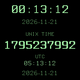
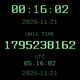
Use pure green #00FF00 for bright phosphor text

diff --git a/src/c/main.c b/src/c/main.c
@@ -80,19 +80,19 @@ static void window_load(Window *window) {
   s_font_label = fonts_load_custom_font(resource_get_handle(RESOURCE_ID_FONT_TERM_14));
 
   s_local_time = text_layer_new(GRect(0, LOCAL_TIME_Y, w, 48),
-                                s_font_local, GColorScreaminGreen);
+                                s_font_local, GColorGreen);
   s_local_date = text_layer_new(GRect(0, LOCAL_DATE_Y, w, 22),
                                 s_font_date, GColorIslamicGreen);
   s_epoch_label = text_layer_new(GRect(0, EPOCH_LABEL_Y, w, 16),
                                  s_font_label, GColorIslamicGreen);
   text_layer_set_text(s_epoch_label, "UNIX TIME");
   s_epoch = text_layer_new(GRect(0, EPOCH_Y, w, 40),
-                           s_font_epoch, GColorScreaminGreen);
+                           s_font_epoch, GColorGreen);
   s_utc_label = text_layer_new(GRect(0, UTC_LABEL_Y, w, 16),
                                s_font_label, GColorIslamicGreen);
   text_layer_set_text(s_utc_label, "UTC");
   s_utc_time = text_layer_new(GRect(0, UTC_TIME_Y, w, 28),
-                              s_font_utc, GColorScreaminGreen);
+                              s_font_utc, GColorGreen);
   s_utc_date = text_layer_new(GRect(0, UTC_DATE_Y, w, 18),
                               s_font_date, GColorIslamicGreen);
 
